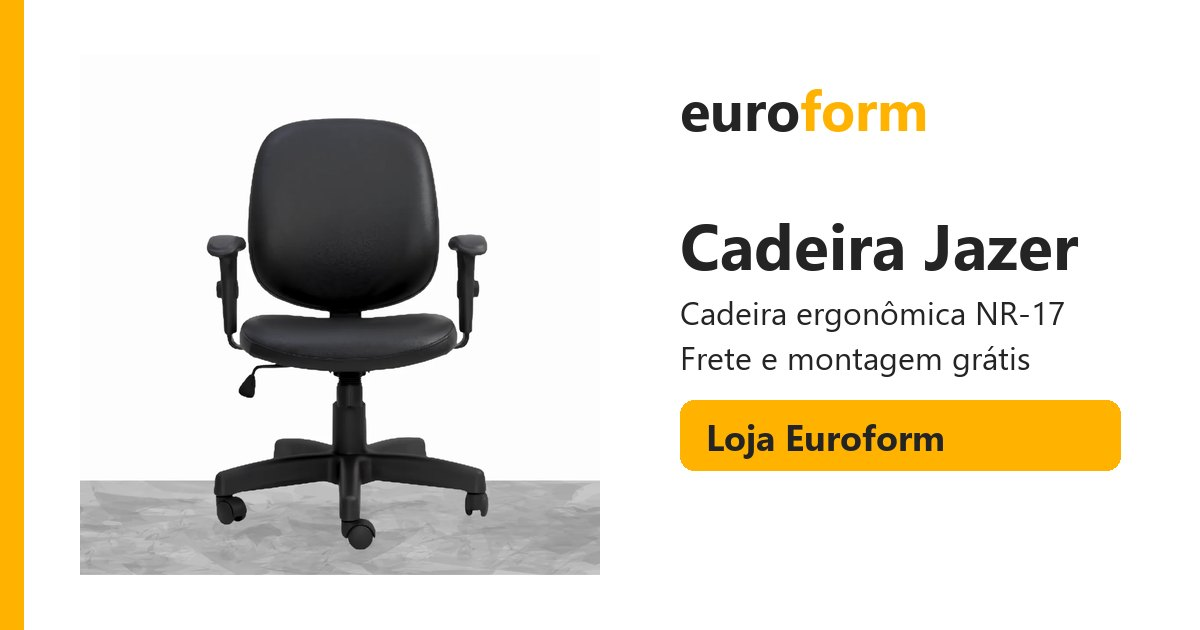
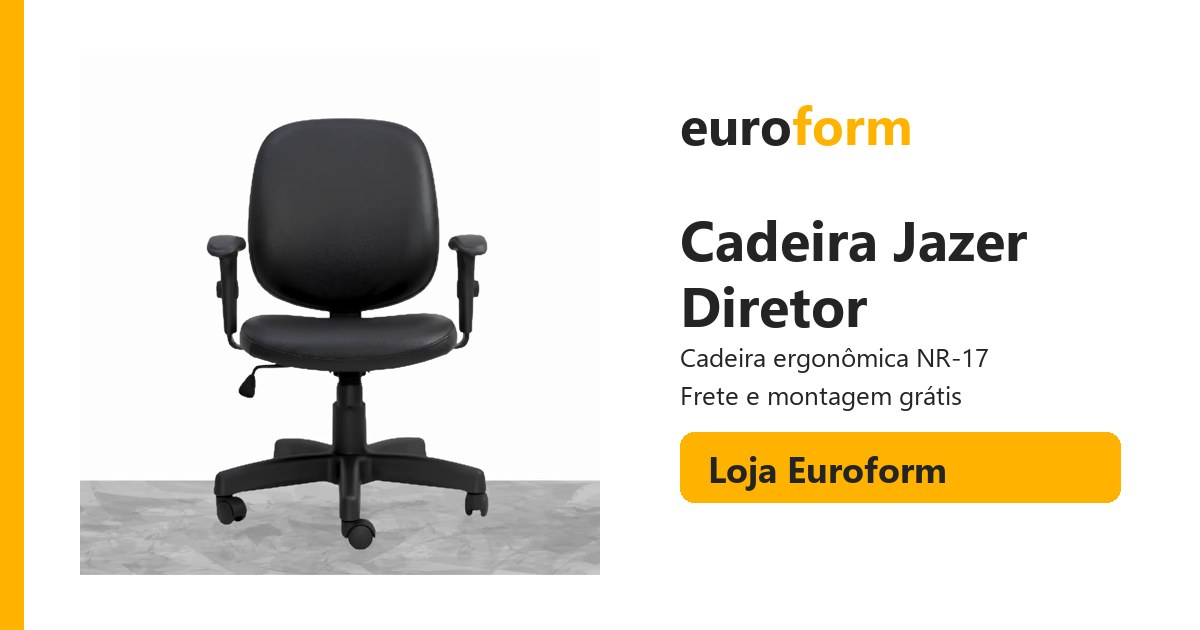
Loja: Jazer passa a se chamar Cadeira Jazer Diretor (entra no filtro Diretor)

Changed region(s): [[0.555, 0.3317, 0.9558, 0.8143], [0.555, 0.1508, 0.7708, 0.2413]]

diff --git a/loja/jazer/index.html b/loja/jazer/index.html
@@ -6,9 +6,9 @@
 ev.forEach(function(e){addEventListener(e,go,{capture:true,passive:true})});addEventListener('load',function(){setTimeout(window.__eL,5000)})})();</script>
 <meta name="viewport" content="width=device-width, initial-scale=1.0">
 <meta name="robots" content="all">
-<title>Cadeira Jazer | Loja Euroform Rio de Janeiro</title>
-<meta name="description" content="Cadeira Jazer: cadeira de escritório 100% nova, fabricação nacional, dentro da NR-17 e com garantia. Frete e montagem grátis no Rio de Janeiro.">
-<link rel="canonical" href="https://euroform.com.br/loja/jazer/"><meta property="og:locale" content="pt_BR"><meta property="og:type" content="website"><meta property="og:site_name" content="Euroform"><meta property="og:title" content="Cadeira Jazer | Loja Euroform Rio de Janeiro"><meta property="og:description" content="Cadeira Jazer: cadeira de escritório 100% nova, fabricação nacional, dentro da NR-17 e com garantia. Frete e montagem grátis no Rio de Janeiro."><meta property="og:url" content="https://euroform.com.br/loja/jazer/"><meta property="og:image" content="https://euroform.com.br/assets/og/jazer.jpg"><meta property="og:image:width" content="1200"><meta property="og:image:height" content="630"><meta name="twitter:card" content="summary_large_image">
+<title>Cadeira Jazer Diretor | Loja Euroform Rio de Janeiro</title>
+<meta name="description" content="Cadeira Jazer Diretor: cadeira de escritório 100% nova, fabricação nacional, dentro da NR-17 e com garantia. Frete e montagem grátis no Rio de Janeiro.">
+<link rel="canonical" href="https://euroform.com.br/loja/jazer/"><meta property="og:locale" content="pt_BR"><meta property="og:type" content="website"><meta property="og:site_name" content="Euroform"><meta property="og:title" content="Cadeira Jazer Diretor | Loja Euroform Rio de Janeiro"><meta property="og:description" content="Cadeira Jazer Diretor: cadeira de escritório 100% nova, fabricação nacional, dentro da NR-17 e com garantia. Frete e montagem grátis no Rio de Janeiro."><meta property="og:url" content="https://euroform.com.br/loja/jazer/"><meta property="og:image" content="https://euroform.com.br/assets/og/jazer.jpg"><meta property="og:image:width" content="1200"><meta property="og:image:height" content="630"><meta name="twitter:card" content="summary_large_image">
 <link rel="icon" href="../../favicon.ico" sizes="any"><link rel="icon" type="image/png" sizes="32x32" href="../../assets/favicon-32.png"><link rel="apple-touch-icon" href="../../assets/apple-touch-icon.png">
 
 
@@ -27,7 +27,7 @@ ev.forEach(function(e){addEventListener(e,go,{capture:true,passive:true})});addE
 @font-face{font-family:'Poppins';font-style:normal;font-weight:700;font-display:swap;src:url(../../assets/fonts/pxiByp8kv8JHgFVrLCz7Z1JlFc-K.woff2) format('woff2');unicode-range:U+0100-02BA, U+02BD-02C5, U+02C7-02CC, U+02CE-02D7, U+02DD-02FF, U+0304, U+0308, U+0329, U+1D00-1DBF, U+1E00-1E9F, U+1EF2-1EFF, U+2020, U+20A0-20AB, U+20AD-20C0, U+2113, U+2C60-2C7F, U+A720-A7FF}
 @font-face{font-family:'Poppins';font-style:normal;font-weight:700;font-display:swap;src:url(../../assets/fonts/pxiByp8kv8JHgFVrLCz7Z1xlFQ.woff2) format('woff2');unicode-range:U+0000-00FF, U+0131, U+0152-0153, U+02BB-02BC, U+02C6, U+02DA, U+02DC, U+0304, U+0308, U+0329, U+2000-206F, U+20AC, U+2122, U+2191, U+2193, U+2212, U+2215, U+FEFF, U+FFFD}</style>
 <link rel="preload" as="image" href="../../assets/produtos/cadeiras/jazer-1.webp" fetchpriority="high"><link rel="stylesheet" href="../style.css">
-<script>window.PRODUTO_NOME = 'Cadeira Jazer';</script>
+<script>window.PRODUTO_NOME = 'Cadeira Jazer Diretor';</script>
 <!-- Meta Pixel Code -->
 <script>
 !function(f,b,e,v,n,t,s)
@@ -119,7 +119,7 @@ height="0" width="0" style="display:none;visibility:hidden"></iframe></noscript>
 
     <div class="prod-layout">
       <div class="prod-galeria">
-        <div class="prod-foto-principal"><img id="prod-foto" fetchpriority="high" decoding="async" src="../../assets/produtos/cadeiras/jazer-1.webp" alt="Cadeira Jazer nova, fabricação nacional"></div>
+        <div class="prod-foto-principal"><img id="prod-foto" fetchpriority="high" decoding="async" src="../../assets/produtos/cadeiras/jazer-1.webp" alt="Cadeira Jazer Diretor nova, fabricação nacional"></div>
         <div class="prod-thumbs">
             <button class="prod-thumb ativo" type="button" data-foto="../../assets/produtos/cadeiras/jazer-1.webp" aria-label="Ver foto: Frente" aria-current="true"><img src="../../assets/produtos/cadeiras/jazer-1.webp" alt="" ></button>
             <button class="prod-thumb" type="button" data-foto="../../assets/produtos/cadeiras/jazer-2.webp" aria-label="Ver foto: Costas"><img src="../../assets/produtos/cadeiras/jazer-2.webp" alt="" loading="lazy"></button>
@@ -129,14 +129,14 @@ height="0" width="0" style="display:none;visibility:hidden"></iframe></noscript>
 
       <div class="prod-info">
         <span class="produto-frete"><svg viewBox="0 0 24 24" aria-hidden="true"><path d="M3 6h11v9H3zM14 9h4l3 3v3h-7zM7 18.5a1.8 1.8 0 1 0 0-.01M17 18.5a1.8 1.8 0 1 0 0-.01"/></svg>Frete e montagem grátis</span>
-        <h1 class="prod-titulo">Cadeira Jazer</h1>
+        <h1 class="prod-titulo">Cadeira Jazer Diretor</h1>
         <div class="produto-selos"><span class="selo-nr17"><b>NR-17</b> Ergonomia</span></div>
         <div class="produto-avaliacao" aria-label="Nota 5 de 5, 37 avaliações, mais de 752 compras"><span class="linha"><span class="estrelas" aria-hidden="true">★★★★★</span><span class="nota">5,0</span><span>(37 avaliações)</span></span><span class="vendidas">752+ compras</span></div>
         <div class="prod-descricao">
           <p>A Jazer é uma cadeira estofada de encosto oval, prática para o dia a dia e com braços reguláveis. Tem uma alavanca para a altura do assento e um manípulo para ajustar a tensão do encosto.</p>
           <p>Fabricação nacional, 100% nova, dentro da norma NR-17 e com garantia.</p>
           </div>
-        <a class="botao botao-primario prod-cta" data-conversion="whatsapp" href="https://api.whatsapp.com/send?phone=5521967568646&amp;text=Ol%C3%A1%21%20Tenho%20interesse%20na%20Cadeira%20Jazer." target="_blank" rel="noopener">
+        <a class="botao botao-primario prod-cta" data-conversion="whatsapp" href="https://api.whatsapp.com/send?phone=5521967568646&amp;text=Ol%C3%A1%21%20Tenho%20interesse%20na%20cadeira%20Jazer%20Diretor." target="_blank" rel="noopener">
           <svg class="icone" viewBox="0 0 24 24" aria-hidden="true"><path d="M17.5 14.4c-.3-.1-1.7-.8-1.9-.9-.3-.1-.4-.1-.6.1-.2.3-.7.9-.8 1-.2.2-.3.2-.5.1-.3-.1-1.2-.4-2.3-1.4-.8-.7-1.4-1.6-1.6-1.9-.2-.3 0-.5.1-.6.1-.1.3-.3.4-.5.1-.1.2-.3.3-.4.1-.2 0-.3 0-.5-.1-.1-.6-1.5-.8-2-.2-.5-.4-.5-.6-.5h-.5c-.2 0-.5.1-.7.3-.2.3-.9.9-.9 2.2s1 2.5 1.1 2.7c.1.2 2 3 4.7 4.3.7.3 1.2.5 1.6.6.7.2 1.3.2 1.8.1.5-.1 1.7-.7 1.9-1.3.2-.7.2-1.2.2-1.3-.1-.2-.2-.2-.5-.3z"/><path d="M12 2C6.5 2 2 6.5 2 12c0 1.8.5 3.6 1.4 5.1L2 22l5.1-1.3C8.5 21.5 10.2 22 12 22c5.5 0 10-4.5 10-10S17.5 2 12 2zm0 18.2c-1.6 0-3.2-.4-4.5-1.2l-.3-.2-3.3.9.9-3.2-.2-.3C3.7 14.7 3.2 13.4 3.2 12c0-4.9 4-8.8 8.8-8.8s8.8 4 8.8 8.8-4 8.8-8.8 8.8z"/></svg>
           Falar no WhatsApp
         </a>
@@ -155,7 +155,7 @@ height="0" width="0" style="display:none;visibility:hidden"></iframe></noscript>
 
     <section class="prod-secao">
       <h2>Medidas</h2>
-      <div class="prod-desenho-caixa"><img class="prod-desenho" src="../../assets/produtos/cadeiras/jazer-4.webp" alt="Desenho técnico com as medidas da Cadeira Jazer" loading="lazy"></div>
+      <div class="prod-desenho-caixa"><img class="prod-desenho" src="../../assets/produtos/cadeiras/jazer-4.webp" alt="Desenho técnico com as medidas da Cadeira Jazer Diretor" loading="lazy"></div>
       <p class="prod-legenda">Medidas em milímetros (mm). No celular, deslize para ver o desenho inteiro.</p>
     </section>
   </div>
@@ -169,7 +169,7 @@ height="0" width="0" style="display:none;visibility:hidden"></iframe></noscript>
   </div>
 </footer>
 
-<a class="whatsapp-flutuante" data-conversion="whatsapp" href="https://api.whatsapp.com/send?phone=5521967568646&amp;text=Ol%C3%A1%21%20Tenho%20interesse%20na%20Cadeira%20Jazer." target="_blank" rel="noopener" aria-label="Falar no WhatsApp">
+<a class="whatsapp-flutuante" data-conversion="whatsapp" href="https://api.whatsapp.com/send?phone=5521967568646&amp;text=Ol%C3%A1%21%20Tenho%20interesse%20na%20cadeira%20Jazer%20Diretor." target="_blank" rel="noopener" aria-label="Falar no WhatsApp">
   <svg viewBox="0 0 24 24" aria-hidden="true"><path d="M17.5 14.4c-.3-.1-1.7-.8-1.9-.9-.3-.1-.4-.1-.6.1-.2.3-.7.9-.8 1-.2.2-.3.2-.5.1-.3-.1-1.2-.4-2.3-1.4-.8-.7-1.4-1.6-1.6-1.9-.2-.3 0-.5.1-.6.1-.1.3-.3.4-.5.1-.1.2-.3.3-.4.1-.2 0-.3 0-.5-.1-.1-.6-1.5-.8-2-.2-.5-.4-.5-.6-.5h-.5c-.2 0-.5.1-.7.3-.2.3-.9.9-.9 2.2s1 2.5 1.1 2.7c.1.2 2 3 4.7 4.3.7.3 1.2.5 1.6.6.7.2 1.3.2 1.8.1.5-.1 1.7-.7 1.9-1.3.2-.7.2-1.2.2-1.3-.1-.2-.2-.2-.5-.3z"/><path d="M12 2C6.5 2 2 6.5 2 12c0 1.8.5 3.6 1.4 5.1L2 22l5.1-1.3C8.5 21.5 10.2 22 12 22c5.5 0 10-4.5 10-10S17.5 2 12 2zm0 18.2c-1.6 0-3.2-.4-4.5-1.2l-.3-.2-3.3.9.9-3.2-.2-.3C3.7 14.7 3.2 13.4 3.2 12c0-4.9 4-8.8 8.8-8.8s8.8 4 8.8 8.8-4 8.8-8.8 8.8z"/></svg>
 </a>
 

diff --git a/loja/index.html b/loja/index.html
@@ -351,11 +351,11 @@ height="0" width="0" style="display:none;visibility:hidden"></iframe></noscript>
 
           <article class="produto-card">
             <div class="produto-foto">
-              <a href="jazer/" aria-label="Ver detalhes da Cadeira Jazer"><img src="../assets/produtos/cadeiras/jazer-card.webp" alt="Cadeira Jazer nova, fabricação nacional" loading="lazy"></a>
+              <a href="jazer/" aria-label="Ver detalhes da Cadeira Jazer Diretor"><img src="../assets/produtos/cadeiras/jazer-card.webp" alt="Cadeira Jazer Diretor nova, fabricação nacional" loading="lazy"></a>
             </div>
             <div class="produto-info">
               <span class="produto-frete"><svg viewBox="0 0 24 24" aria-hidden="true"><path d="M3 6h11v9H3zM14 9h4l3 3v3h-7zM7 18.5a1.8 1.8 0 1 0 0-.01M17 18.5a1.8 1.8 0 1 0 0-.01"/></svg>Frete e montagem grátis</span>
-              <h3 class="produto-nome"><a href="jazer/">Cadeira Jazer</a></h3>
+              <h3 class="produto-nome"><a href="jazer/">Cadeira Jazer Diretor</a></h3>
               <div class="produto-selos">
                 <span class="selo-nr17" title="Certificada NR-17 (ergonomia)"><b>NR-17</b> Ergonomia</span>
               </div>
@@ -364,7 +364,7 @@ height="0" width="0" style="display:none;visibility:hidden"></iframe></noscript>
                   <span class="linha"><span class="estrelas" aria-hidden="true">★★★★★</span><span class="nota">5,0 (37)</span></span>
                   <span class="vendidas">752+ compras</span>
                 </div>
-                <a class="produto-cta" href="https://api.whatsapp.com/send?phone=5521967568646&text=Ol%C3%A1!%20Tenho%20interesse%20na%20cadeira%20Jazer." target="_blank" rel="noopener" aria-label="Falar no WhatsApp sobre esta cadeira">
+                <a class="produto-cta" href="https://api.whatsapp.com/send?phone=5521967568646&text=Ol%C3%A1!%20Tenho%20interesse%20na%20cadeira%20Jazer%20Diretor." target="_blank" rel="noopener" aria-label="Falar no WhatsApp sobre esta cadeira">
                   <svg viewBox="0 0 24 24" aria-hidden="true"><path d="M17.5 14.4c-.3-.1-1.7-.8-1.9-.9-.3-.1-.4-.1-.6.1-.2.3-.7.9-.8 1-.2.2-.3.2-.5.1-.3-.1-1.2-.4-2.3-1.4-.8-.7-1.4-1.6-1.6-1.9-.2-.3 0-.5.1-.6.1-.1.3-.3.4-.5.1-.1.2-.3.3-.4.1-.2 0-.3 0-.5-.1-.1-.6-1.5-.8-2-.2-.5-.4-.5-.6-.5h-.5c-.2 0-.5.1-.7.3-.2.3-.9.9-.9 2.2s1 2.5 1.1 2.7c.1.2 2 3 4.7 4.3.7.3 1.2.5 1.6.6.7.2 1.3.2 1.8.1.5-.1 1.7-.7 1.9-1.3.2-.7.2-1.2.2-1.3-.1-.2-.2-.2-.5-.3z"/><path d="M12 2C6.5 2 2 6.5 2 12c0 1.8.5 3.6 1.4 5.1L2 22l5.1-1.3C8.5 21.5 10.2 22 12 22c5.5 0 10-4.5 10-10S17.5 2 12 2zm0 18.2c-1.6 0-3.2-.4-4.5-1.2l-.3-.2-3.3.9.9-3.2-.2-.3C3.7 14.7 3.2 13.4 3.2 12c0-4.9 4-8.8 8.8-8.8s8.8 4 8.8 8.8-4 8.8-8.8 8.8z"/></svg>
                 </a>
               </div>
